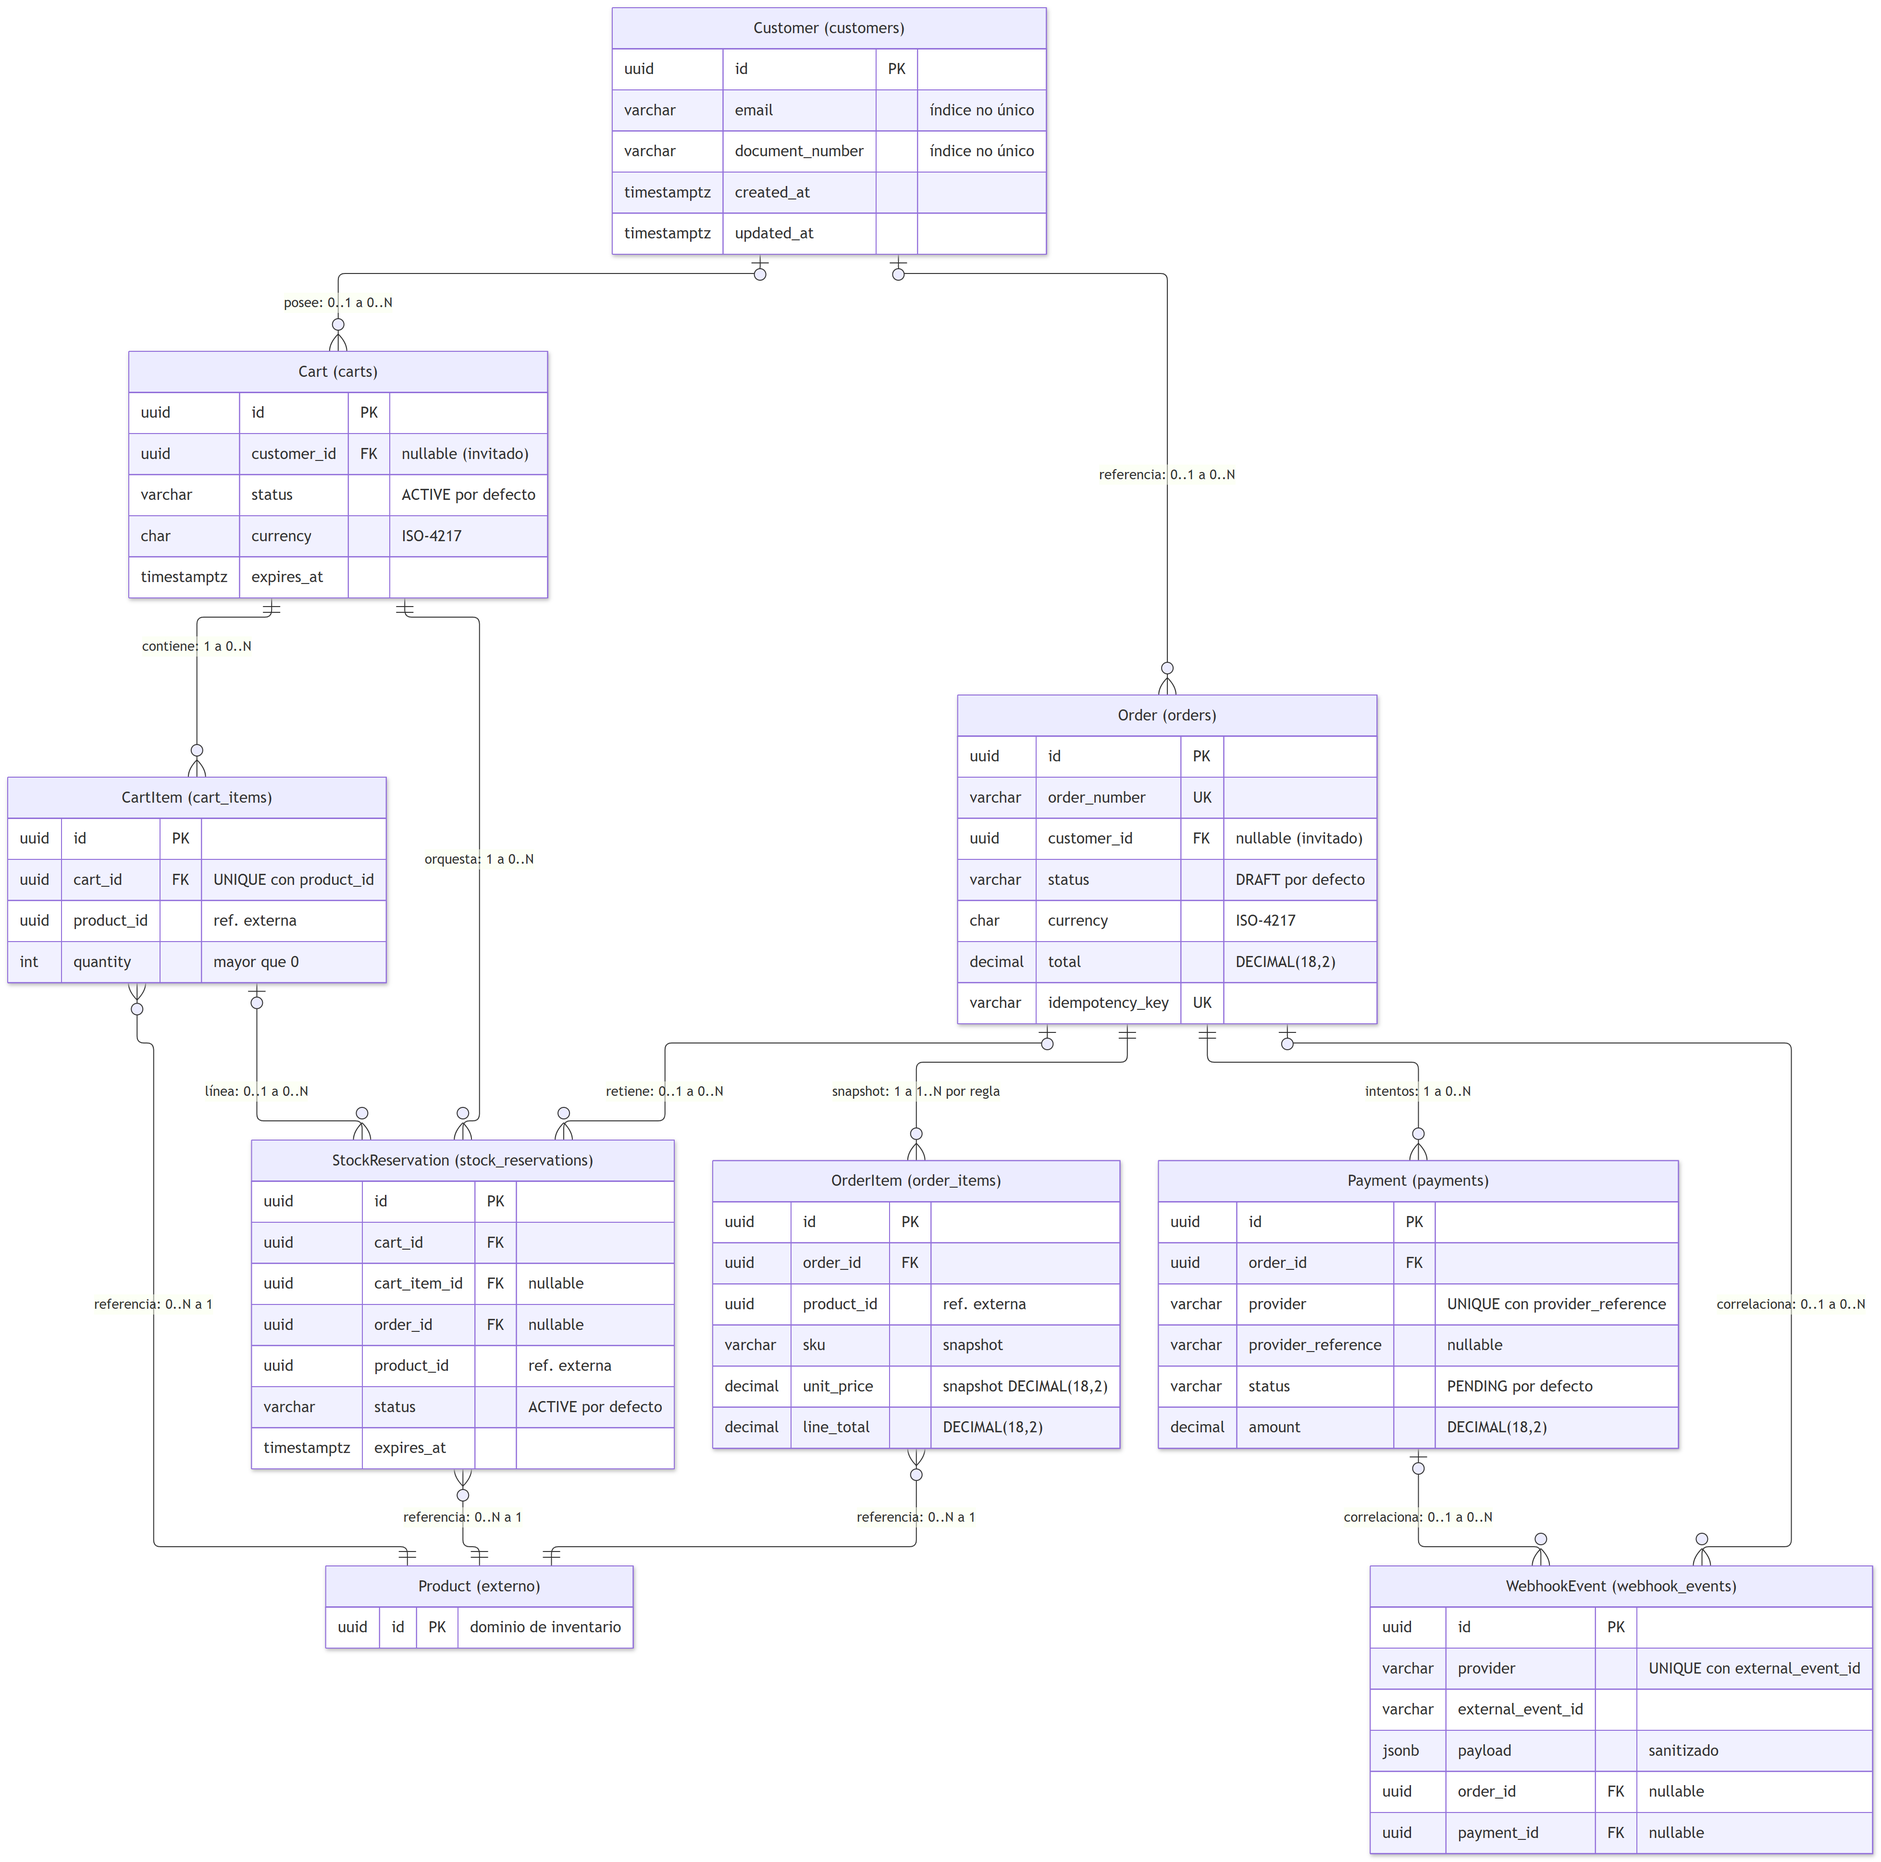
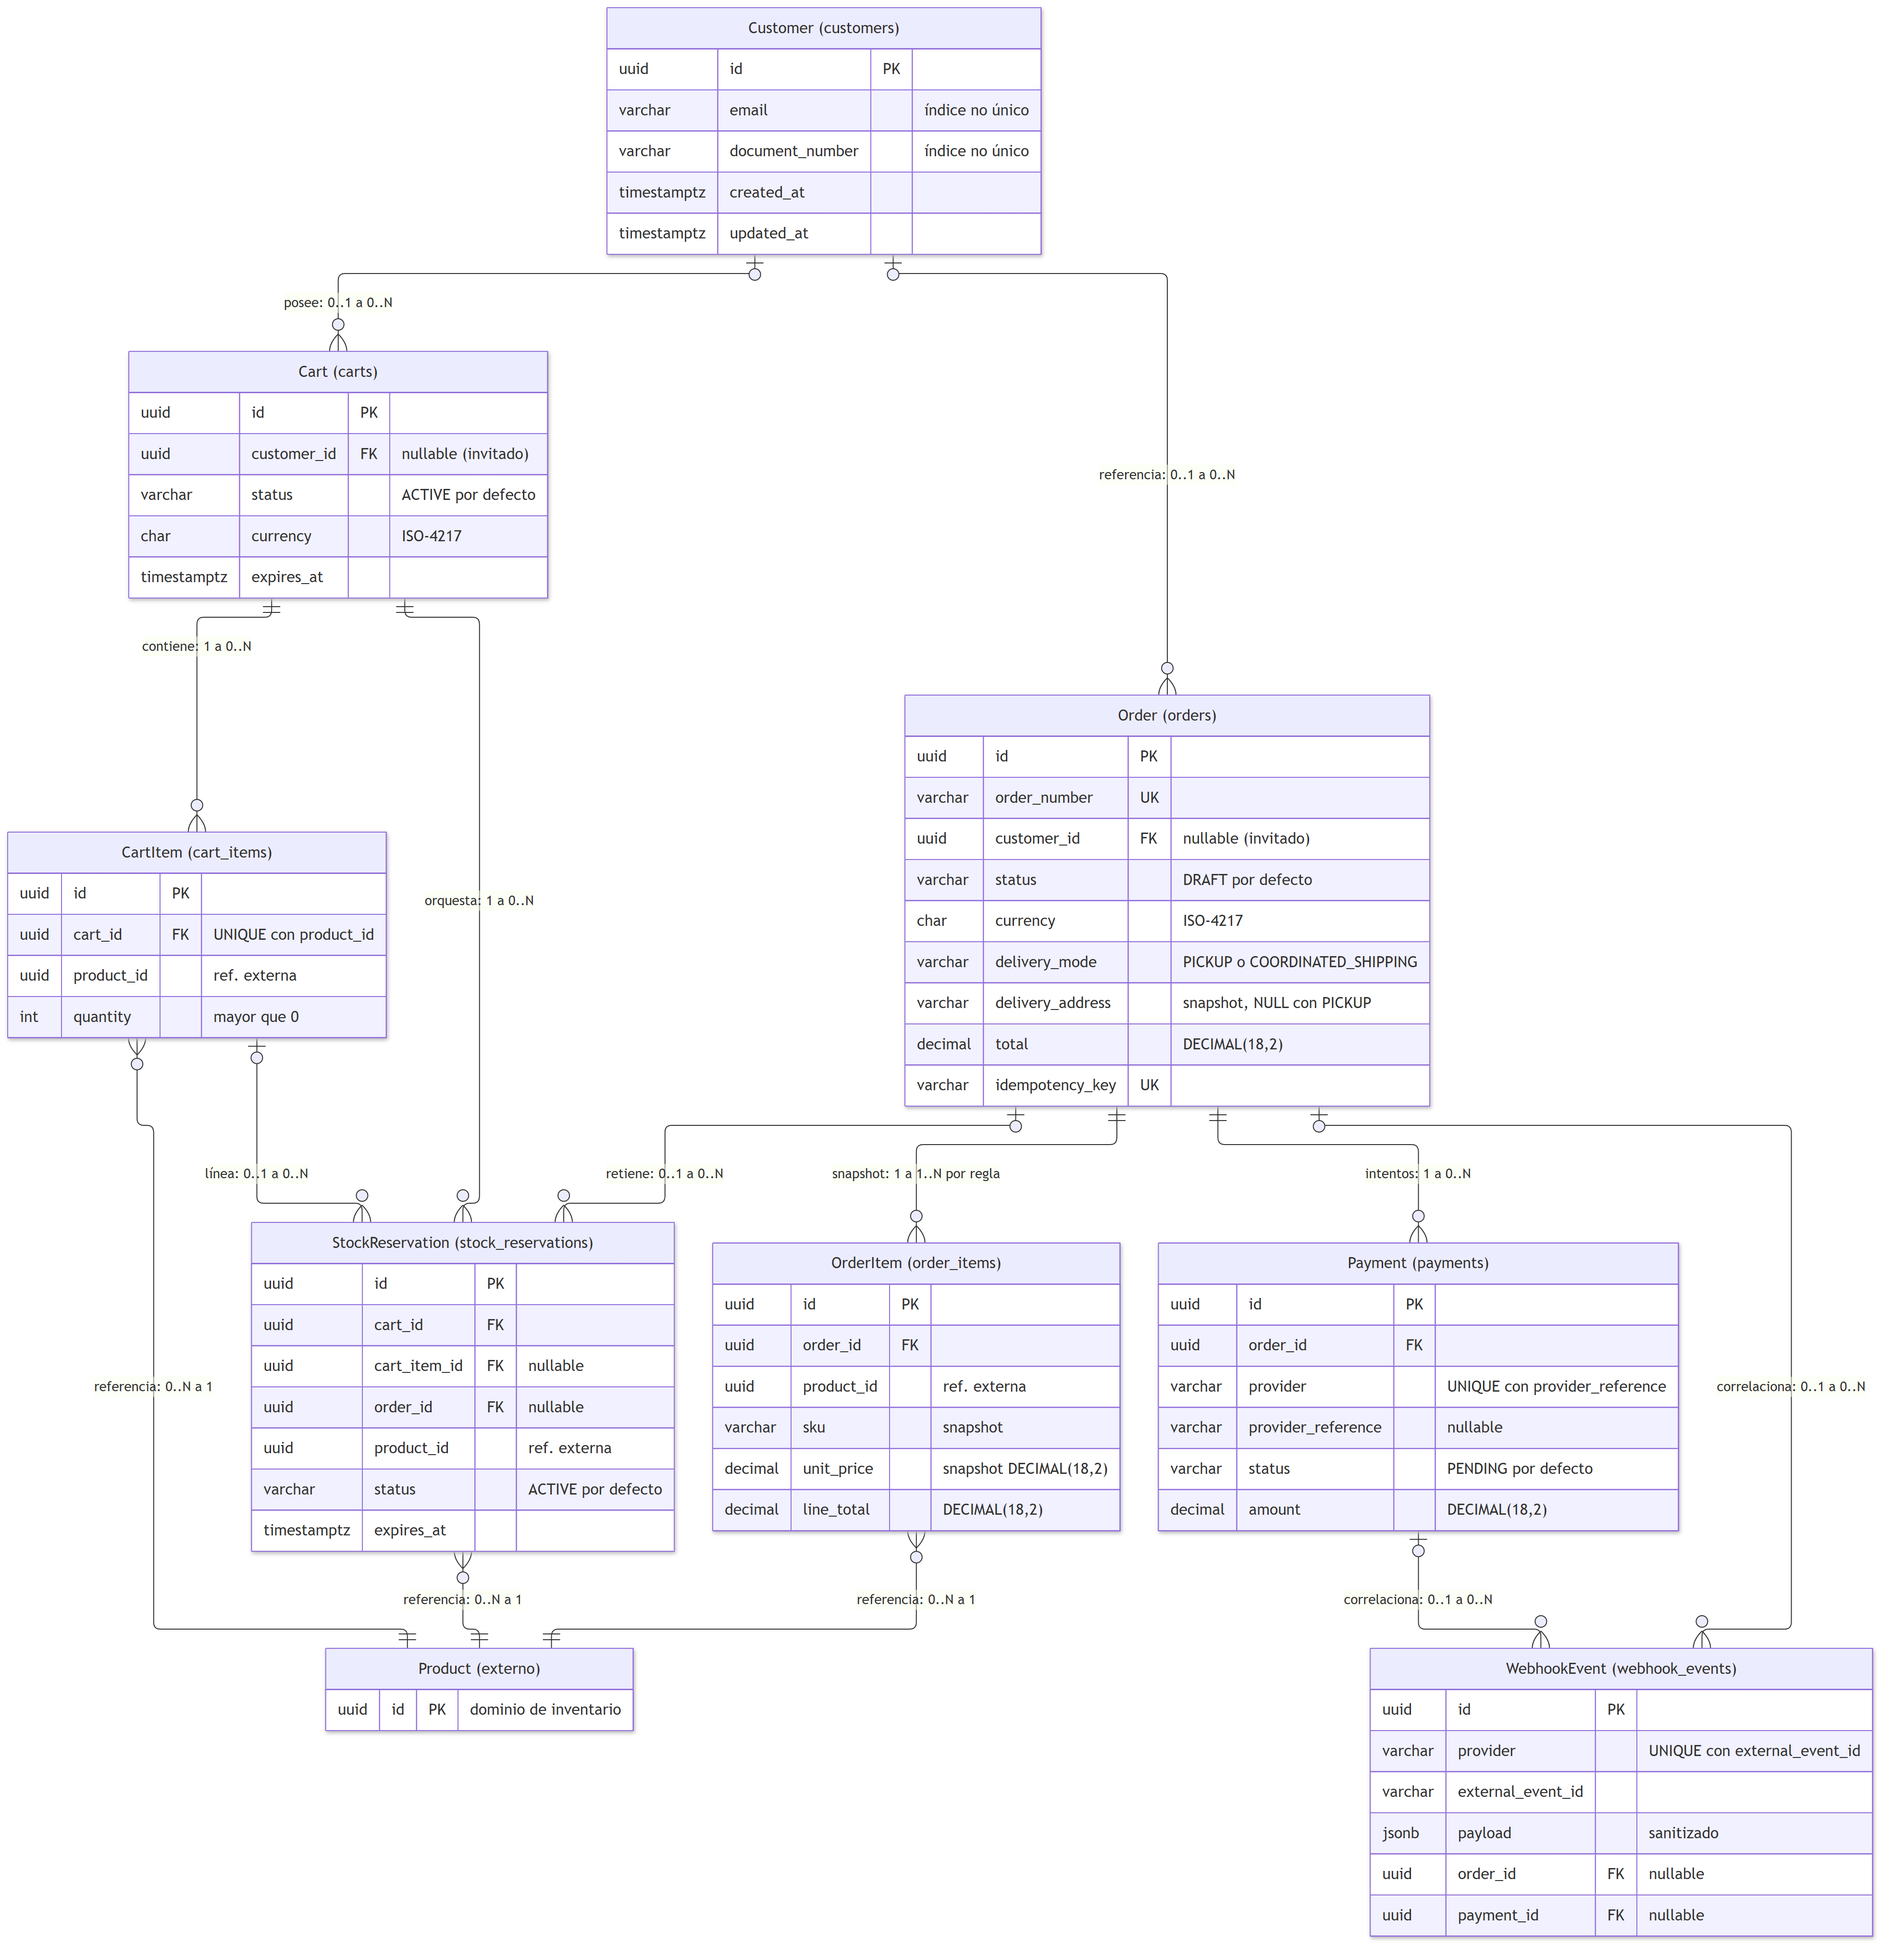
docs(data): align delivery address with checkout flow

diff --git a/docs/modelo-datos.md b/docs/modelo-datos.md
@@ -170,6 +170,7 @@ una conciliación simultánea.
 | customer_document_type | VARCHAR(10) | No | Sin valor por defecto | — | Snapshot del comprador |
 | customer_document_number | VARCHAR(30) | No | Sin valor por defecto | — | Snapshot del comprador |
 | delivery_mode | VARCHAR(30) | No | Sin valor por defecto | CHECK IN (`PICKUP`, `COORDINATED_SHIPPING`) | Modalidad de entrega |
+| delivery_address | VARCHAR(255) | Sí | NULL | CHECK de modalidad (ver abajo) | Snapshot de la dirección de envío; NULL con `PICKUP` |
 | subtotal | DECIMAL(18,2) | No | Sin valor por defecto | CHECK (`>= 0`) | Suma de subtotales de línea |
 | tax_total | DECIMAL(18,2) | No | Sin valor por defecto | CHECK (`>= 0`) | Suma de impuestos de línea |
 | total | DECIMAL(18,2) | No | Sin valor por defecto | CHECK (`>= 0`) | Total a pagar |
@@ -177,6 +178,23 @@ una conciliación simultánea.
 | idempotency_request_hash | VARCHAR(128) | No | Sin valor por defecto | — | Huella canónica de la solicitud |
 | paid_at / fulfilled_at / cancelled_at / failed_at / expired_at | TIMESTAMPTZ | Sí | NULL | — | Auditoría de cada transición |
 | created_at / updated_at | TIMESTAMPTZ | No | CURRENT_TIMESTAMP | — | Campos de control |
+
+**Dirección de entrega.** `delivery_address` es el snapshot de la dirección
+usada para esa orden (`DeliveryData.address` del contrato): no depende de
+que el cliente cambie después sus datos, no es FK y no existe tabla de
+direcciones. Es nullable porque el retiro en sede no la necesita. Regla:
+con `PICKUP` debe ser NULL; con `COORDINATED_SHIPPING` es obligatoria y no
+vacía. Restricción conceptual (sin migración todavía):
+
+```text
+CHECK (
+  (delivery_mode = 'PICKUP' AND delivery_address IS NULL)
+  OR
+  (delivery_mode = 'COORDINATED_SHIPPING'
+   AND delivery_address IS NOT NULL
+   AND btrim(delivery_address) <> '')
+)
+```
 
 Transiciones permitidas: `DRAFT → PENDING_PAYMENT | CANCELLED`;
 `PENDING_PAYMENT → PAID | FAILED | EXPIRED | CANCELLED`; `PAID → FULFILLED`.
@@ -371,6 +389,7 @@ Comparación contra `api/openapi.yaml` de la rama `docs/e2-api-contract`.
 | PaymentProvider | `WOMPI`, `MERCADOPAGO` | `payments.provider`, `webhook_events.provider` | COHERENTE |
 | CustomerData | `name`, `email`, `phone`, `document_type`, `document_number` | Columnas `customer_*` de `orders` (snapshot) y tabla `customers` | COHERENTE |
 | DeliveryData | `mode`: `PICKUP` o `COORDINATED_SHIPPING` | `orders.delivery_mode` con los mismos valores | COHERENTE |
+| Dirección de entrega | `DeliveryData.address`: obligatoria y no vacía con `COORDINATED_SHIPPING`; omitida o null con `PICKUP` (`if`/`then`/`else`); máximo 255 | `orders.delivery_address` `VARCHAR(255)`, snapshot, con la CHECK de modalidad | COHERENTE |
 | Cart | `id`, `items`, `subtotal`, `tax_total`, `total`, `currency`, `expires_at` | `carts` (`id`, `currency`, `expires_at`); totales calculados con el precio vigente | COHERENTE (totales calculados, no guardados) |
 | CartItem | `id`, `product_id`, `sku`, `name`, `quantity`, `unit_price`, `tax_amount`, `line_total`, `available_quantity` | `cart_items` (`id`, `product_id`, `quantity`); el resto se obtiene del catálogo | COHERENTE (precio vigente, no snapshot) |
 | Order | `id`, `order_number`, `status`, `currency`, totales, `customer`, `delivery`, `items`, `created_at`, `updated_at` | `orders` con los mismos datos; `customer` y `delivery` aplanados | COHERENTE |
@@ -411,22 +430,25 @@ Revisión de solo lectura de `web/` en la rama `feat/e2-prototype-ui`.
 | Comprador: nombre, tipo y número de documento, correo, teléfono | `CustomerData` → columnas `customer_*` | Sí |
 | Tipos de documento CC, CE, NIT, PAS | `document_type` como código | Sí |
 | Modalidad: retiro en sede / envío coordinado | `DeliveryData.mode`: `PICKUP` / `COORDINATED_SHIPPING` → `delivery_mode` | Sí |
-| Dirección de entrega (solo con envío) | No existe en `DeliveryData` ni en `orders` | **No** — ver discrepancia |
+| Dirección de entrega (obligatoria con envío, mínimo 8 caracteres) | `DeliveryData.address` → `orders.delivery_address` (snapshot); obligatoria con `COORDINATED_SHIPPING`, NULL con `PICKUP` | Sí — COHERENTE |
 | Subtotal | `subtotal` (suma de líneas) | Sí |
 | IVA 19 % | `tax_total` = suma de `tax_amount` por línea | Parcial — ver observación |
 | Total | `total` = `subtotal` + `tax_total` | Sí |
 | Categoría, marca, condición, unidad de venta, descripción | Datos del dominio externo de producto; no están en `ProductSummary` | Parcial — ver observación |
 | Pago sandbox y confirmación simulada | `PaymentIntent` y `redirect_url`; el redirect no confirma el pago | Sí (la UI aclara que es demostración) |
 
-**Discrepancia (no bloqueante): dirección de entrega.** El checkout del
-prototipo pide una dirección cuando se elige envío coordinado, pero el
-contrato (`DeliveryData` solo tiene `mode`) y el modelo (`orders` solo tiene
-`delivery_mode`) no la contemplan. La modalidad en sí es coherente. El
-equipo debe decidir entre quitar el campo de la UI, si el envío se coordina
-por teléfono como indica el propio texto de la opción, o ampliar contrato y
-modelo en una revisión posterior. No se modifica el contrato en esta tarea.
+**Dirección de entrega: COHERENTE.** Decisión del equipo: la UI conserva el
+campo, obligatorio solo con envío coordinado. El contrato lo expresa en
+`DeliveryData.address` y el modelo lo guarda como snapshot en
+`orders.delivery_address`. El mínimo de la UI (8 caracteres) es más estricto
+que el del contrato (5), así que todo valor aceptado por la UI es válido
+para la API.
 
 **Observaciones (no bloqueantes):**
+
+- Para el frontend definitivo: limitar el campo de dirección a 255
+  caracteres (el prototipo no fija máximo) y no enviar `address` con
+  `PICKUP`, aunque el usuario la haya escrito antes de cambiar de modalidad.
 
 - La UI calcula el IVA sobre el subtotal con una tasa global; el modelo lo
   calcula por línea (`tax_amount`) y lo suma. Con una sola tasa el resultado

diff --git a/docs/architecture/DATA_MODEL.md b/docs/architecture/DATA_MODEL.md
@@ -310,6 +310,7 @@ Jobs de expiración: fuera de alcance de este documento.
 | customer_document_type | string | No | | Snapshot comprador |
 | customer_document_number | string | No | | Snapshot comprador |
 | delivery_mode | string enum | No | PICKUP \| COORDINATED_SHIPPING | Modalidad |
+| delivery_address | VARCHAR(255) | Sí | CHECK de modalidad (ver abajo) | Snapshot de la dirección de envío |
 | subtotal | DECIMAL(18,2) | No | ≥ 0 | Subtotal |
 | tax_total | DECIMAL(18,2) | No | ≥ 0 | Impuestos |
 | total | DECIMAL(18,2) | No | ≥ 0 | Total |
@@ -322,6 +323,33 @@ Jobs de expiración: fuera de alcance de este documento.
 | expired_at | datetime | Sí | | Momento EXPIRED |
 | created_at | datetime | No | | Alta |
 | updated_at | datetime | No | | Última actualización |
+
+### Delivery address (snapshot)
+
+`delivery_address` guarda la dirección usada **para esa orden concreta**
+(`DeliveryData.address` del contrato). Es un snapshot como los datos del
+comprador: no depende de que el cliente cambie después sus datos. No es FK
+y no existe tabla `addresses`.
+
+Es nullable en la estructura física porque `PICKUP` no necesita dirección.
+Regla de dominio:
+
+| delivery_mode | delivery_address |
+|---------------|------------------|
+| `PICKUP` | Debe ser `NULL` |
+| `COORDINATED_SHIPPING` | Obligatoria, no vacía |
+
+Restricción conceptual (no se ejecuta migración todavía):
+
+```text
+CHECK (
+  (delivery_mode = 'PICKUP' AND delivery_address IS NULL)
+  OR
+  (delivery_mode = 'COORDINATED_SHIPPING'
+   AND delivery_address IS NOT NULL
+   AND btrim(delivery_address) <> '')
+)
+```
 
 ### Money / currency
 
@@ -663,6 +691,8 @@ erDiagram
     uuid customer_id FK
     string status
     string currency
+    string delivery_mode
+    string delivery_address
     string idempotency_key UK
     string idempotency_request_hash
   }
@@ -719,6 +749,7 @@ Cardinalidades:
 | PaymentProvider | WOMPI, MERCADOPAGO | Igual | Sí |
 | Idempotency-Key | header obligatorio | `idempotency_key` + hash | Sí |
 | Customer snapshot | CustomerData en Order | columnas snapshot | Sí |
+| Delivery address | `DeliveryData.address` (obligatoria con COORDINATED_SHIPPING; omitida o null con PICKUP) | `orders.delivery_address` snapshot + CHECK de modalidad | Sí |
 | Order items snapshot | sku, name, prices | `order_items` | Sí |
 | Payment attempts | payment-intent por orden | 1→N `payments` | Sí |
 | Webhook ids | X-Webhook-Id / event_id | `external_event_id` UNIQUE | Sí |

diff --git a/docs/decisiones.md b/docs/decisiones.md
@@ -50,7 +50,10 @@ transaccional. El detalle técnico está en `docs/architecture/DATA_MODEL.md`
   compra.
 - **Decisión.** `order_items` guarda una copia de SKU, nombre, precio
   unitario, tasa e importes en el momento de crear la orden. La orden copia
-  también los datos del comprador.
+  también los datos del comprador y la dirección de entrega
+  (`delivery_address`), que solo aplica a `COORDINATED_SHIPPING`: es
+  obligatoria con envío coordinado y NULL con retiro en sede (CHECK de
+  modalidad). No hay tabla de direcciones ni FK.
 - **Consecuencia.** La orden es auditable aunque el catálogo cambie. El
   carrito, en cambio, usa el precio vigente y el cambio se detecta en el
   checkout (`PRICE_CHANGED`).
